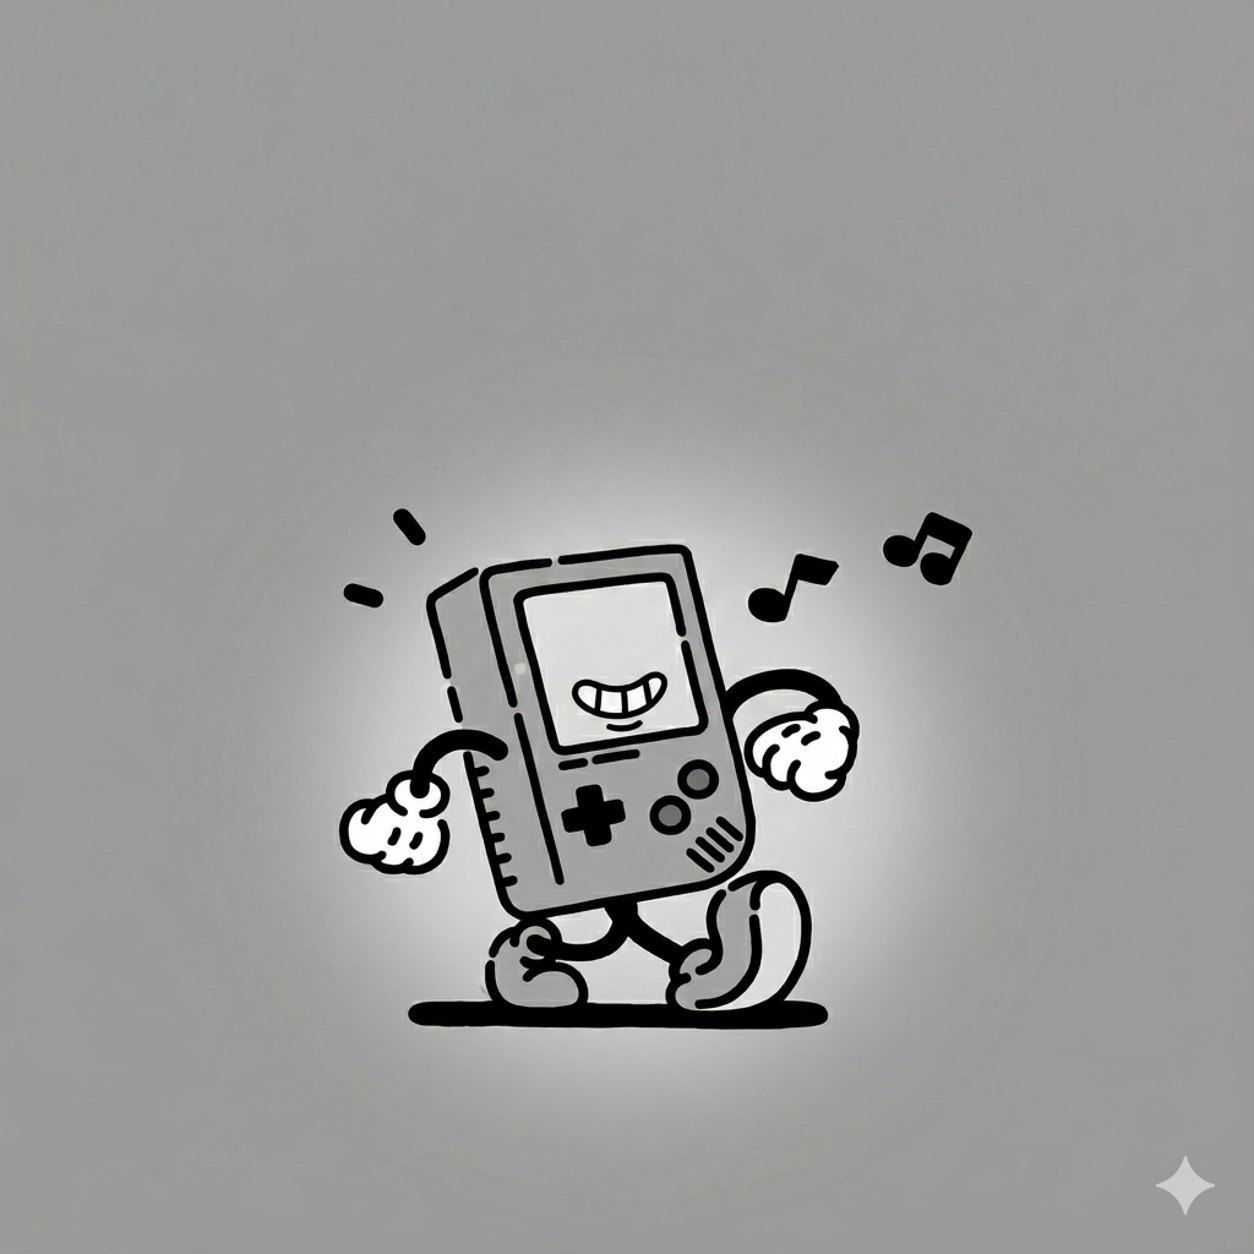
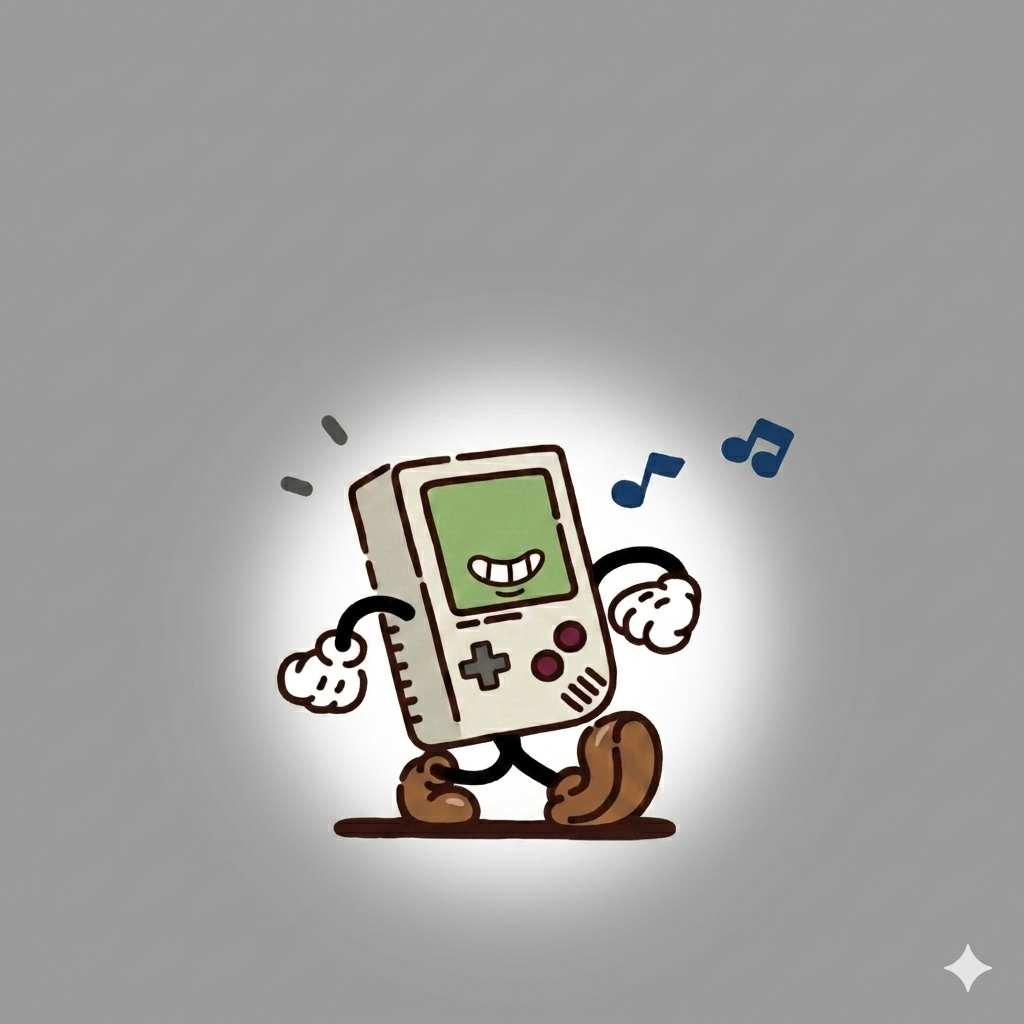
refactor: [게임 보이] 이미지 변경

Changed region(s): [[0.25, 0.3438, 0.7812, 0.875], [0.9375, 0.9062, 0.9688, 0.9688]]

diff --git a/src/components/work/Gameboy.tsx b/src/components/work/Gameboy.tsx
@@ -7,7 +7,7 @@ export function Gameboy({ leftPupilRef, rightPupilRef }: Props) {
   return (
     <>
       <img
-        src="/characters/gameboy/gameboy.png"
+        src="/characters/gameboy/gameboy-6.png"
         className="h-full w-full object-contain"
       />
 
